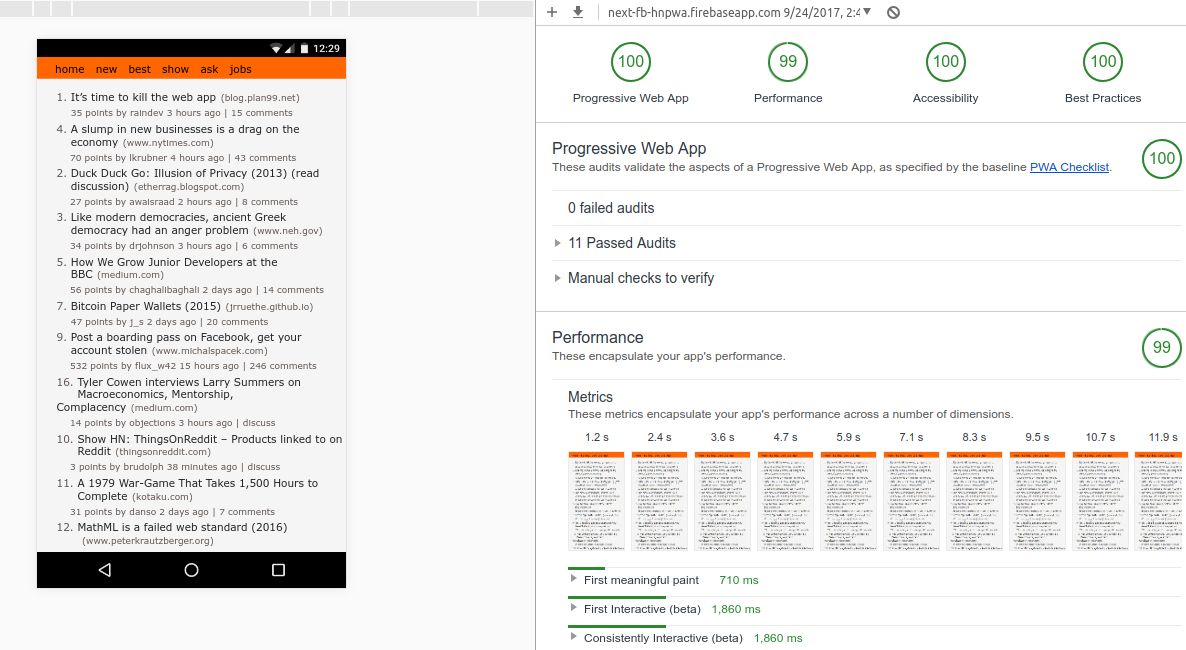
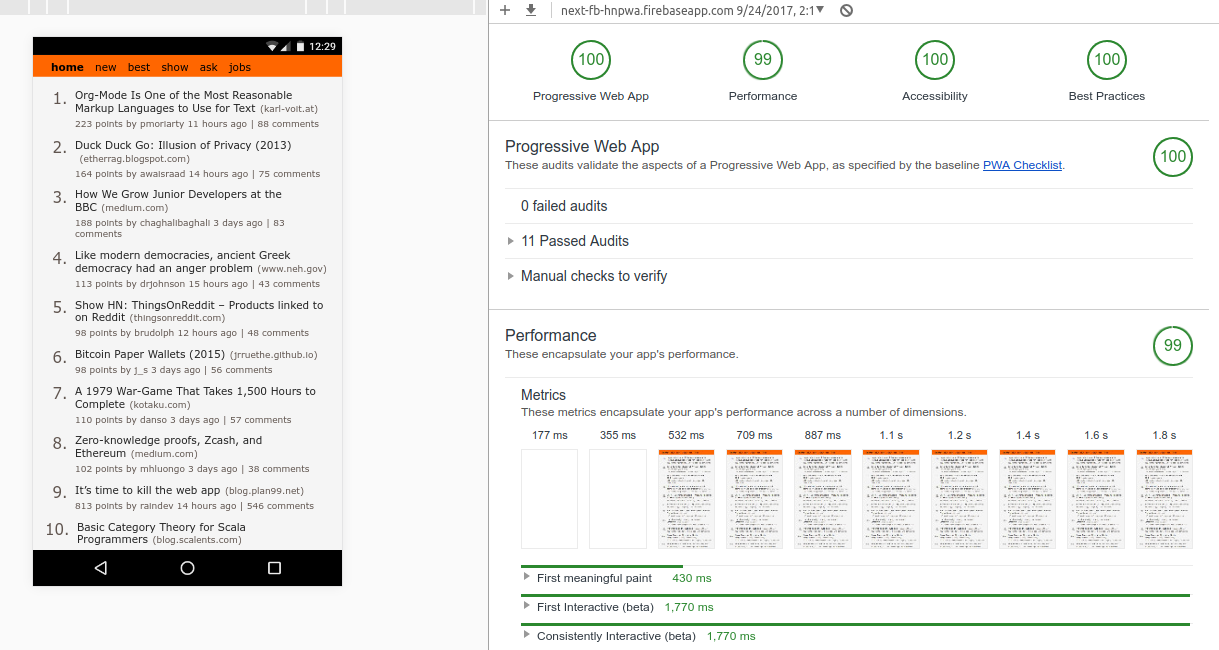
Update with perf results after recent changes

diff --git a/README.md b/README.md
@@ -14,9 +14,10 @@ https://next-fb-hnpwa.firebaseapp.com/
 
 ### WebPageTest.org Results:
 
-![Local Lighthouse](performance/fb-webpagetest.png)
+![WebPageTest.org Results](performance/fb-webpagetest.png)
 
-Complete results: https://www.webpagetest.org/result/170923_0Q_ee3d10dc5b386229a2ad0ec4ea1abf9e/
+Complete results (emerging markets): https://www.webpagetest.org/result/170924_BQ_08b80e1854f5bfa0c5b36d10a5373b1e/
+Complete results (faster 3G): https://www.webpagetest.org/result/170924_SG_e20c408039688ecdcc07205ff6a91299/
 
 ## Hosted on Heroku
 
@@ -28,10 +29,10 @@ https://next-hnpwa.herokuapp.com
 
 ### WebPageTest.org Results:
 
-![Local Lighthouse](performance/heroku-webpagetest1.png)
+![WebPageTest.org Results](performance/heroku-webpagetest1.png)
 
 The timings that resulted in an `F` for the 'First Byte Time' are as shown below:
 
-![Local Lighthouse](performance/heroku-webpagetest2.png)
+![WebPageTest.org Results](performance/heroku-webpagetest2.png)
 
 Complete results: https://www.webpagetest.org/result/170923_TJ_70e85a49a2ab814ff7134a8019384b20/
